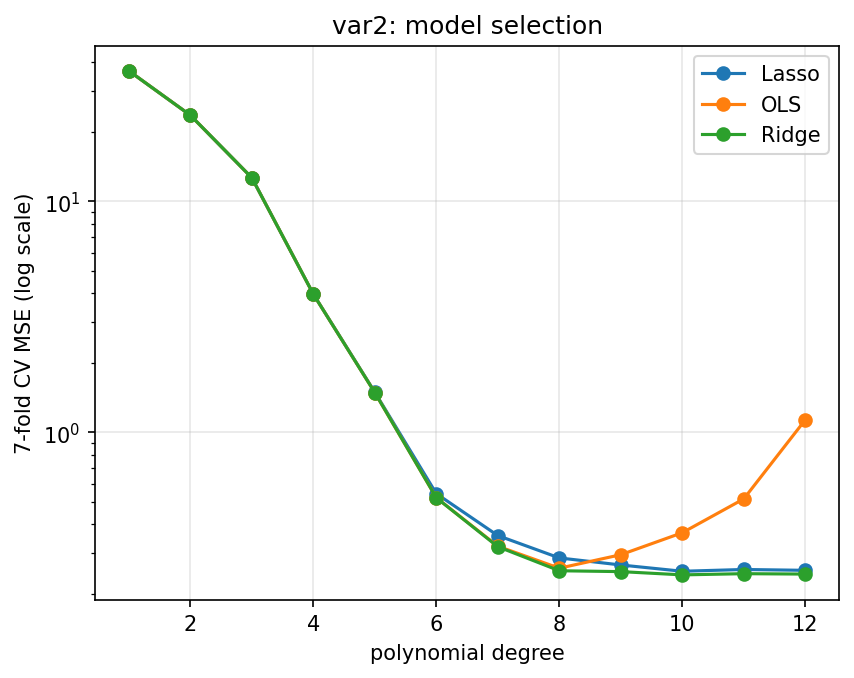
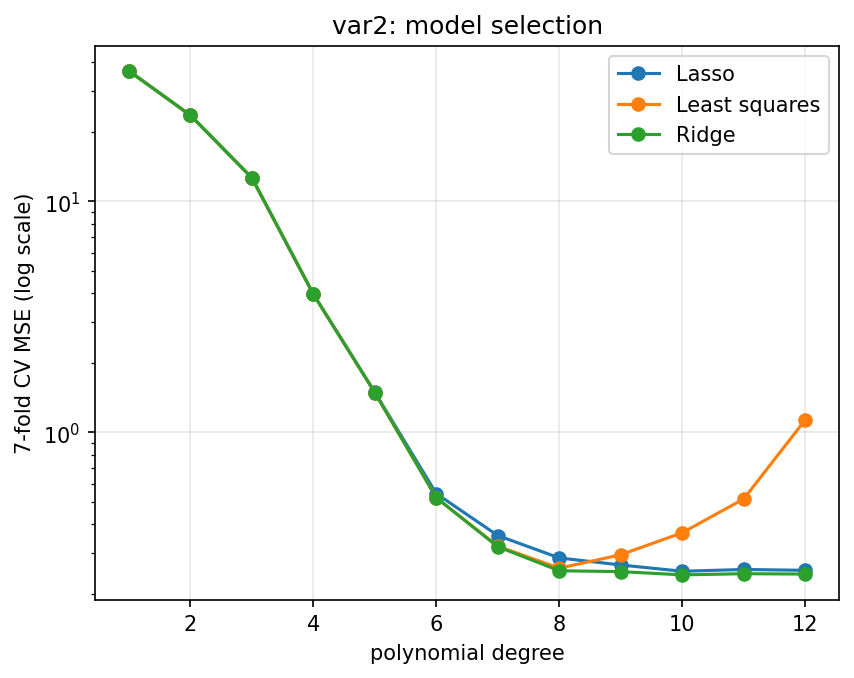
Rename OLS to least squares

Changed region(s): [[0.7916, 0.0929, 0.9742, 0.2168], [0.7002, 0.0929, 0.7611, 0.2168]]

diff --git a/polyreg.py b/polyreg.py
@@ -3,9 +3,9 @@ Polynomial regression from scratch (NumPy only).
 
 Model:  y = w0 + sum_j w_j * phi_j(x)   where phi_j are all monomials of the inputs up to degree d.
 The weights are fitted by
-    OLS    minimise (1/N)  ||y - Phi w||^2
-    Ridge  minimise (1/N)  ||y - Phi w||^2 + lam * ||w||_2^2      (L2)
-    Lasso  minimise (1/2N) ||y - Phi w||^2 + lam * ||w||_1        (L1)
+    Least squares  minimise (1/N)  ||y - Phi w||^2
+    Ridge          minimise (1/N)  ||y - Phi w||^2 + lam * ||w||_2^2      (L2)
+    Lasso          minimise (1/2N) ||y - Phi w||^2 + lam * ||w||_1        (L1)
 """
 from itertools import combinations_with_replacement
 import numpy as np
@@ -38,7 +38,7 @@ def poly_features(X, powers):
 # ---------------------------------------------------------------- solvers
 # All solvers receive standardised features Z (zero mean, unit std) and centred y,
 # so no intercept is needed inside them.
-def fit_ols(Z, y):
+def fit_least_squares(Z, y):
     # least squares via SVD (stable even when Z'Z is ill-conditioned)
     return np.linalg.lstsq(Z, y, rcond=None)[0]
 
@@ -72,7 +72,7 @@ def fit_lasso(Z, y, lam, w=None, max_sweeps=300, tol=1e-4):
 
 # ---------------------------------------------------------------- model wrapper
 LAMBDAS = {
-    "OLS": [0.0],
+    "Least squares": [0.0],
     "Ridge": list(np.logspace(-6, 1, 15)),
     "Lasso": list(np.logspace(-1, -3, 9)),   # large -> small so each fit warm-starts the next
 }
@@ -89,8 +89,8 @@ def fit_path(X, y, degree, model):
 
     fitted, w = [], None
     for lam in LAMBDAS[model]:
-        if model == "OLS":
-            w = fit_ols(Z, yc)
+        if model == "Least squares":
+            w = fit_least_squares(Z, yc)
         elif model == "Ridge":
             w = fit_ridge(Z, yc, lam)
         else:

diff --git a/feature_subsets.py b/feature_subsets.py
@@ -1,9 +1,9 @@
 """
 Feature-subset study: for every non-empty subset of the input features, sweep the polynomial
-degree with OLS and Ridge (7-fold CV) and record the best setting for that subset.
+degree with least squares and Ridge (7-fold CV) and record the best setting for that subset.
    var1: 63 subsets of 6 features      var2: 7 subsets of 3 features
 Usage: python feature_subsets.py [1|2]
-Lasso is left out here to keep the run short; OLS and Ridge are both closed-form.
+Lasso is left out here to keep the run short; least squares and Ridge are both closed-form.
 """
 import sys
 from itertools import combinations
@@ -28,7 +28,7 @@ def study(var):
         for subset in combinations(range(D), size):
             best = None
             for degree in range(1, MAX_DEGREE[var] + 1):
-                for model in ("OLS", "Ridge"):
+                for model in ("Least squares", "Ridge"):
                     mse, std = cv_mse(X[:, subset], y, degree, model)
                     i = int(np.argmin(mse))
                     if best is None or mse[i] < best["cv_mse"]:
@@ -36,7 +36,7 @@ def study(var):
                                 "degree": degree, "model": model, "lam": LAMBDAS[model][i],
                                 "cv_mse": mse[i], "cv_std": std[i], "cv_r2": 1 - mse[i] / y.var()}
             rows.append(best)
-            print(f"var{var}  {best['features']:18s} best: degree {best['degree']:2d} {best['model']:5s} "
+            print(f"var{var}  {best['features']:18s} best: degree {best['degree']:2d} {best["model"]:13s} "
                   f"CV MSE={best['cv_mse']:.3f}", flush=True)
     res = pd.DataFrame(rows).sort_values("cv_mse")
     res.to_csv(f"results/subsets_var{var}.csv", index=False)

diff --git a/train.py b/train.py
@@ -2,7 +2,7 @@
 Training (NumPy only).   python train.py        -> both problems
                           python train.py 1      -> only var1
 
-For every degree and every model (OLS / Ridge / Lasso) we run 7-fold CV, keep the best
+For every degree and every model (least squares / Ridge / Lasso) we run 7-fold CV, keep the best
 lambda, and finally choose the lowest degree whose CV MSE is within 2% of the best.
 """
 import sys
@@ -23,12 +23,12 @@ def train(var):
 
     rows = []
     for degree in range(1, MAX_DEGREE[var] + 1):
-        for model in ("OLS", "Ridge", "Lasso"):
+        for model in ("Least squares", "Ridge", "Lasso"):
             mse, std = cv_mse(X, y, degree, model)
             best = int(np.argmin(mse))
             rows.append({"degree": degree, "model": model, "lam": LAMBDAS[model][best],
                          "cv_mse": mse[best], "cv_std": std[best], "cv_r2": 1 - mse[best] / y.var()})
-            print(f"var{var}  degree={degree:2d}  {model:5s}  lam={LAMBDAS[model][best]:.2e}  "
+            print(f"var{var}  degree={degree:2d}  {model:13s}  lam={LAMBDAS[model][best]:.2e}  "
                   f"CV MSE={mse[best]:.4f} +- {std[best]:.4f}", flush=True)
     res = pd.DataFrame(rows)
     res.to_csv(f"results/cv_var{var}.csv", index=False)

diff --git a/README.md b/README.md
@@ -6,7 +6,7 @@ Polynomial regression written from scratch in NumPy.
     python train.py      # 7-fold CV over degree, model and lambda; saves models/ and results/
     python predict.py    # writes BT2024251_pred_var1.csv and BT2024251_pred_var2.csv
 
-- `polyreg.py` - polynomial features, OLS, Ridge (closed form), Lasso (coordinate descent), K-fold CV
+- `polyreg.py` - polynomial features, least squares, Ridge (closed form), Lasso (coordinate descent), K-fold CV
 - `train.py` - model selection and final fit
 - `predict.py` - inference on the test files
 - `feature_subsets.py` - degree sweep for every subset of the input features (63 for var1, 7 for var2)
